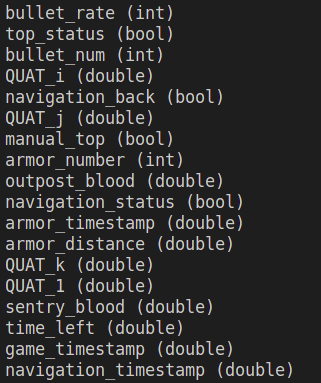
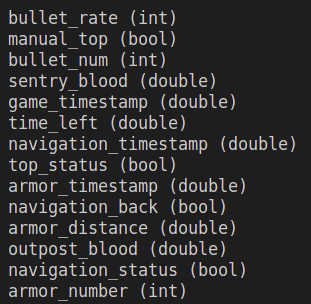
修改了deep detector部分结构

diff --git a/src/BehaviorTree.cpp b/src/BehaviorTree.cpp
@@ -12,10 +12,6 @@ namespace wmj
             fs["init_armor_number"] >> this->armor_msg.armor_number;
             fs["init_armor_distance"] >> this->armor_msg.armor_distance;
             fs["init_armor_timestamp"] >> this->armor_msg.armor_timestamp;
-            fs["init_QUAT_1"] >> this->navigation_msg.QUAT_1;
-            fs["init_QUAT_i"] >> this->navigation_msg.QUAT_i;
-            fs["init_QUAT_j"] >> this->navigation_msg.QUAT_j;
-            fs["init_QUAT_k"] >> this->navigation_msg.QUAT_k;
             fs["init_navigation_timestamp"] >> this->navigation_msg.navigation_timestamp;
             fs["init_navigation_status "] >> this->navigation_msg.navigation_status;
             fs["init_navigation_back"] >> this->navigation_msg.navigation_back;
@@ -82,10 +78,6 @@ namespace wmj
         RCLCPP_INFO(rclcpp::get_logger("MSG INFO"), "Game msg get");
         // 更新导航信息
         navigation_msg.navigation_timestamp = msg->navigation.navigation_timestamp;
-        navigation_msg.QUAT_1 = msg->navigation.quat_1;
-        navigation_msg.QUAT_i = msg->navigation.quat_i;
-        navigation_msg.QUAT_j = msg->navigation.quat_j;
-        navigation_msg.QUAT_k = msg->navigation.quat_k;
         RCLCPP_INFO(rclcpp::get_logger("MSG INFO"), "Navigation msg get");
     }
 
@@ -105,10 +97,6 @@ namespace wmj
         ports_list.insert(BT::OutputPort<double>("armor_distance"));
         ports_list.insert(BT::OutputPort<double>("armor_timestamp"));
 
-        ports_list.insert(BT::OutputPort<double>("QUAT_1"));
-        ports_list.insert(BT::OutputPort<double>("QUAT_i"));
-        ports_list.insert(BT::OutputPort<double>("QUAT_j"));
-        ports_list.insert(BT::OutputPort<double>("QUAT_k"));
         ports_list.insert(BT::OutputPort<double>("navigation_timestamp"));
         ports_list.insert(BT::OutputPort<bool>("navigation_status"));
 
@@ -174,10 +162,6 @@ namespace wmj
         setOutput("armor_distance", armor_msg.armor_distance);
         setOutput("armor_timestamp", armor_msg.armor_timestamp);
 
-        setOutput("QUAT_1", navigation_msg.QUAT_1);
-        setOutput("QUAT_i", navigation_msg.QUAT_i);
-        setOutput("QUAT_j", navigation_msg.QUAT_j);
-        setOutput("QUAT_k", navigation_msg.QUAT_k);
         setOutput("navigation_timestamp", navigation_msg.navigation_timestamp);
         setOutput("navigation_status", navigation_msg.navigation_status);
         setOutput("navigation_back", navigation_msg.navigation_back);
@@ -424,10 +408,6 @@ namespace wmj
     {
         BT::PortsList port_lists;
 
-        port_lists.insert(BT::InputPort<double>("QUAT_1"));
-        port_lists.insert(BT::InputPort<double>("QUAT_i"));
-        port_lists.insert(BT::InputPort<double>("QUAT_j"));
-        port_lists.insert(BT::InputPort<double>("QUAT_k"));
         port_lists.insert(BT::InputPort<bool>("navigation_back"));
 
         return port_lists;
@@ -435,27 +415,14 @@ namespace wmj
 
     BT::NodeStatus Navigation_on_Node::tick()
     {
-        auto QUAT_1 = getInput<double>("QUAT_1");
-        auto QUAT_i = getInput<double>("QUAT_i");
-        auto QUAT_j = getInput<double>("QUAT_j");
-        auto QUAT_k = getInput<double>("QUAT_k");
         auto navigation_back = getInput<bool>("navigation_back");
 
-        if (!QUAT_1)
-        {
-            throw BT::RuntimeError("detect_node missing required input [message]:",
-                                   QUAT_1.error());
-        }
-        else if (!navigation_back)
+        if (!navigation_back)
         {
             throw BT::RuntimeError("detect_node missing required input [message]:",
                                    navigation_back.error());
         }
 
-        msg.quat_1 = QUAT_1.value();
-        msg.quat_i = QUAT_i.value();
-        msg.quat_j = QUAT_j.value();
-        msg.quat_k = QUAT_k.value();
         msg.back = navigation_back.value();
         msg.navigation_continue = true;
 
@@ -510,7 +477,7 @@ int main(int argc, char **argv)
     //  BT::MinitraceLogger logger_minitrace(tree,"bt_trace.json");
     //  BT::PublisherZMQ publisher_zmq(tree);
     BT::printTreeRecursively(tree.rootNode());
-    // tree.subtrees[0]->blackboard->debugMessage();
+    tree.subtrees[0]->blackboard->debugMessage();
    
     rclcpp::Rate loop_rate(2);
     while (rclcpp::ok())

diff --git a/include/behavior_tree/BehaviorTree.hpp b/include/behavior_tree/BehaviorTree.hpp
@@ -26,10 +26,6 @@ namespace wmj
     // 导航信息
     struct Navigation_msg
     {
-        double QUAT_1; // 四元数实数
-        double QUAT_i; // 四元数虚数部分
-        double QUAT_j;
-        double QUAT_k;
         double navigation_timestamp; // 导航事件戳
         bool navigation_status;      // 当前导航状态，true表示正在移动
         bool navigation_back;        // 是否返回出发点

diff --git a/README.md b/README.md
@@ -1,4 +1,4 @@
-# 行为树 v1.1
+# 行为树 v1.2
 
 ~~**目前整棵树为Sequence结构，执行 `DataReadNode` , `Top_Node` , `Detect_Node` , `Navigation_Node`后处理回调.**~~
 
@@ -16,16 +16,18 @@
 
 `ros2 run behavior_tree behaviortree `
 
+### 1.行为树逻辑
 
+![](image/流程图.png)
 
-### 1.行为树架构
+### 2.行为树架构
 
 ![](image/行为树架构.png)
 
 ![](image/行为树结构.png)
 
 
-### 2.ROS订阅发布：
+### 3.ROS订阅发布：
 
 ```c++
 //subscription:
@@ -56,14 +58,9 @@ struct Armor_msg
 //Navigation   从通讯节点获取,使用接口：Game.msg中的 Navigation
 struct Navigation_msg
     {
-        double QUAT_1;   // 四元数实数
-        double QUAT_i;   // 四元数虚数部分
-        double QUAT_j;
-        double QUAT_k;
         double navigation_timestamp; // 导航事件戳
         bool navigation_status;   // 当前导航状态，true表示正在移动
         bool navigation_back;  //是否需要返回巡逻区域
-        
     };
 
 //BT_shooter   发向通讯节点,使用接口: Shooter.msg
@@ -73,28 +70,19 @@ bullet_rate   // 射速
 top_status  // 小陀螺状态
 
 //BT_navigation  发向导航节点,使用接口: Navigation.msg
-double QUAT_1;   // 四元数实数
-double QUAT_i;   // 四元数虚数部分
-double QUAT_j;
-double QUAT_k;
 bool navigation_back;  //是否返回巡逻区
 bool navigation_continue;  //导航是否继续
 ```
 
 
 
-### 3.行为树内部entry
+### 4.行为树内部entry
 ![](image/内部键值对.png)
 
 ```c++
 armor_number="{armor_number}"               // 识别到的装甲板的数量
 armor_distance="{armor_distance}"           // 最近的装甲板的距离
 armor_timestamp="{armor_timestamp}"         // 装甲板时间戳
- 
-QUAT_1="{QUAT_1}"                  // 四元数实数
-QUAT_i="{QUAT_i}"                  // 四元数虚数部分
-QUAT_j="{QUAT_j}" 
-QUAT_k="{QUAT_k}" 
             
 navigation_timestamp="{navigation_timestamp}"  // 导航事件戳
 navigation_status="{navigation_status}"        // 当前导航状态，true表示正在移动
@@ -107,12 +95,6 @@ time_left="{time_left}"                     // 剩余比赛时间
 game_timestamp="{game_timestamp}"           // 比赛状况事件戳
 manual_top="{manual_top}"                   // 是否手动开启小陀螺
 ```
-
-
-
-### 4.行为树逻辑
-
-![](image/流程图.png)
 
 
 
